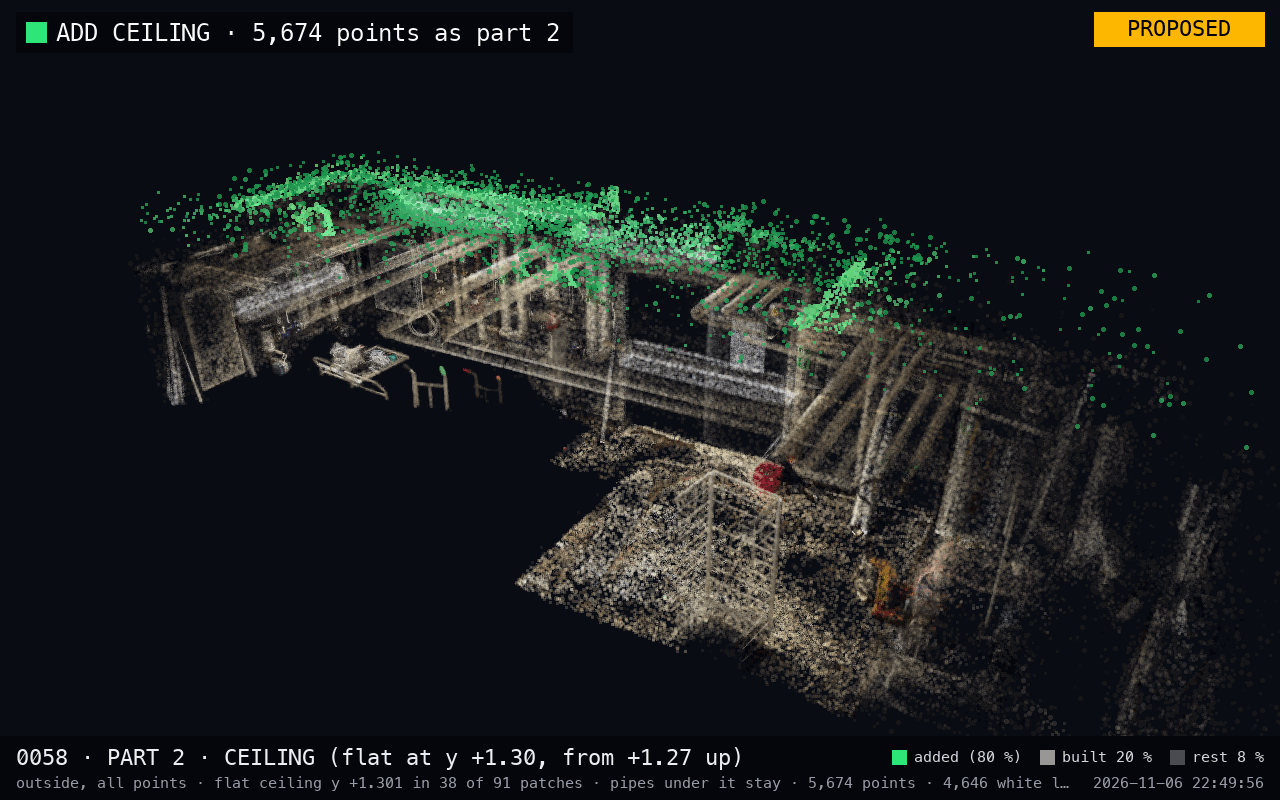
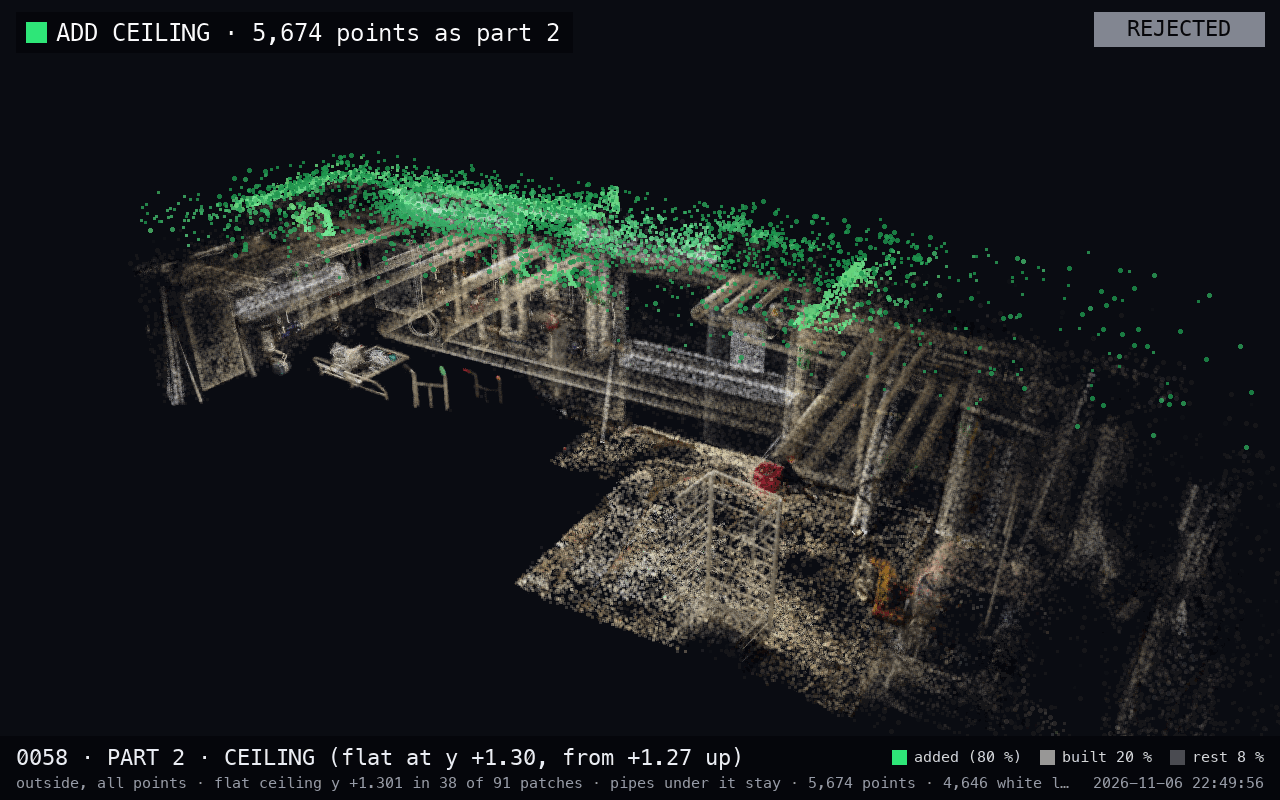
[pipe] PART 2 (0057) rejected: ceiling still too low; add a 'lift' parameter to raise the cut
User: still the wrong spot, very close to the last one; raise it 5-10 cm.

Changed region(s): [[0.8438, 0.0, 1.0, 0.0625]]

diff --git a/pipeline/stepbuild/parts.py b/pipeline/stepbuild/parts.py
@@ -50,27 +50,30 @@ def floor(xyz: np.ndarray, bmin: np.ndarray, bmax: np.ndarray, *, pool: np.ndarr
 
 
 def ceiling(xyz: np.ndarray, bmin: np.ndarray, bmax: np.ndarray, *, pool: np.ndarray, white: int = 240,
-            below: float = 0.03) -> PartProposal:
+            below: float = 0.03, lift: float = 0.0) -> PartProposal:
     """The real ceiling: the flat height where most points are (geometry.ceiling_height_by_cells: per 25 cm patch
     the highest dense layer, so pipes running just under the ceiling never count), and everything from `below`
     under that height upwards: nothing up there can be a pipe. Saturated-white points (min RGB >= `white`) are the
     lamps and are left for their own part. Close-up from below.
 
-    First try (rejected by the user, image 0046): everything above the gap over the pipe band (y 1.13), which took
-    pipes running next to the ceiling."""
+    `lift` raises the cut by hand (the user asked for +5..10 cm after 0057).
+
+    Rejected by the user: 0046 (everything above the gap over the pipe band, y 1.13: took pipes running next to the
+    ceiling) and 0057 (cut at 1.27: still too close to it)."""
     split_y, _ = ceiling_split(xyz[:, 1])
     lamp = (xyz[:, 1] >= split_y) & (rgb_of(pool).min(1) >= white)
     ceiling_y, cells, cells_near = ceiling_height_by_cells(xyz[~lamp], split_y)  # lamps hang lower: no vote
-    take = (xyz[:, 1] >= ceiling_y - below) & ~lamp
+    cut = ceiling_y - below + lift
+    take = (xyz[:, 1] >= cut) & ~lamp
     n = int(take.sum())
     return PartProposal(
         take=take, name="ceiling", label="Ceiling", kind="structure",
-        title=f"CEILING (flat at y {ceiling_y:+.2f}, from {ceiling_y - below:+.2f} up)",
+        title=f"CEILING (from y {cut:+.2f} up)" + (f", raised {100 * lift:.0f} cm" if lift else ""),
         subtitle=(f"flat ceiling y {ceiling_y:+.3f} in {cells_near} of {cells} patches · pipes under it stay · "
                   f"{n:,} points · {int(lamp.sum()):,} white lamp points left for their own part"),
         camera=R.look_up_camera(bmin, bmax, ceiling_y),
-        params={"white": white, "below": below},
-        info={"ceiling_y": round(ceiling_y, 4), "cut_y": round(ceiling_y - below, 4), "patches": cells,
+        params={"white": white, "below": below, "lift": lift},
+        info={"ceiling_y": round(ceiling_y, 4), "cut_y": round(cut, 4), "patches": cells,
               "patches_at_ceiling": cells_near, "lamp_points": int(lamp.sum())},
         view_dir=(0.0, 0.55, -1.0),
     )
